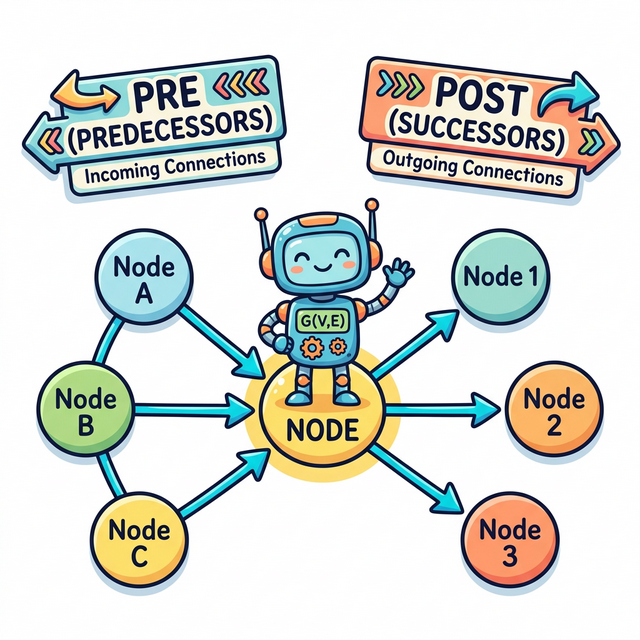
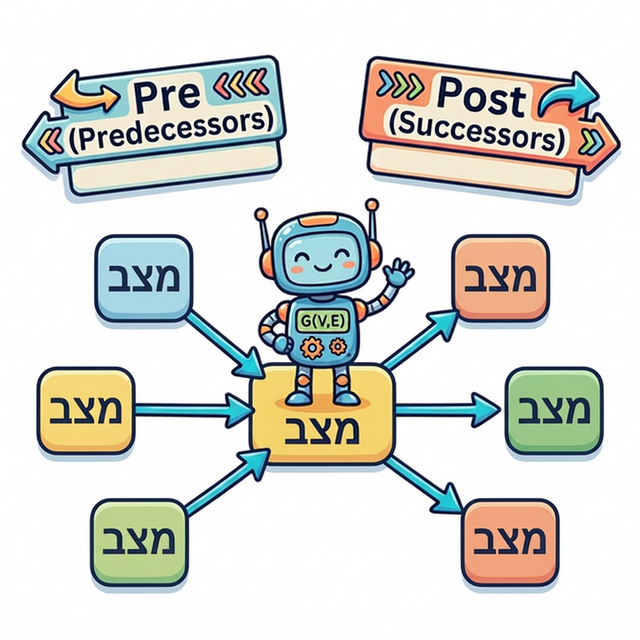
איורים

diff --git a/01-transition-systems.md b/01-transition-systems.md
@@ -276,7 +276,7 @@ $L: \{RH\} \to \emptyset \to \emptyset \to \{TH\} \to \{TH,RH\}$
 
 # קבוצות קודמים ועוקבים ישירים 
 
-<img src="/predecessors_successors_comic.png" class="absolute left-4 bottom-4 w-48 rounded-lg shadow-lg opacity-90" />
+<img src="/predecessors_successors_comic.png" class="absolute right-95 bottom-2 w-55" />
 
 תהי $TS = (S, Act, \to, I, AP, L)$ מערכת מעברים. עבור מצב $s \in S$ ופעולה $\alpha \in Act$:
 
@@ -307,6 +307,8 @@ $L: \{RH\} \to \emptyset \to \emptyset \to \{TH\} \to \{TH,RH\}$
 ---
 
 # הרחבה לקבוצות
+
+<img src="/pointwise_extension_comic.png" class="absolute right-95 bottom-2 w-55" />
 
 תהי $TS = (S, Act, \to, I, AP, L)$ מערכת מעברים. עבור קבוצת מצבים $C \subseteq S$ ופעולה $\alpha \in Act$:
 
